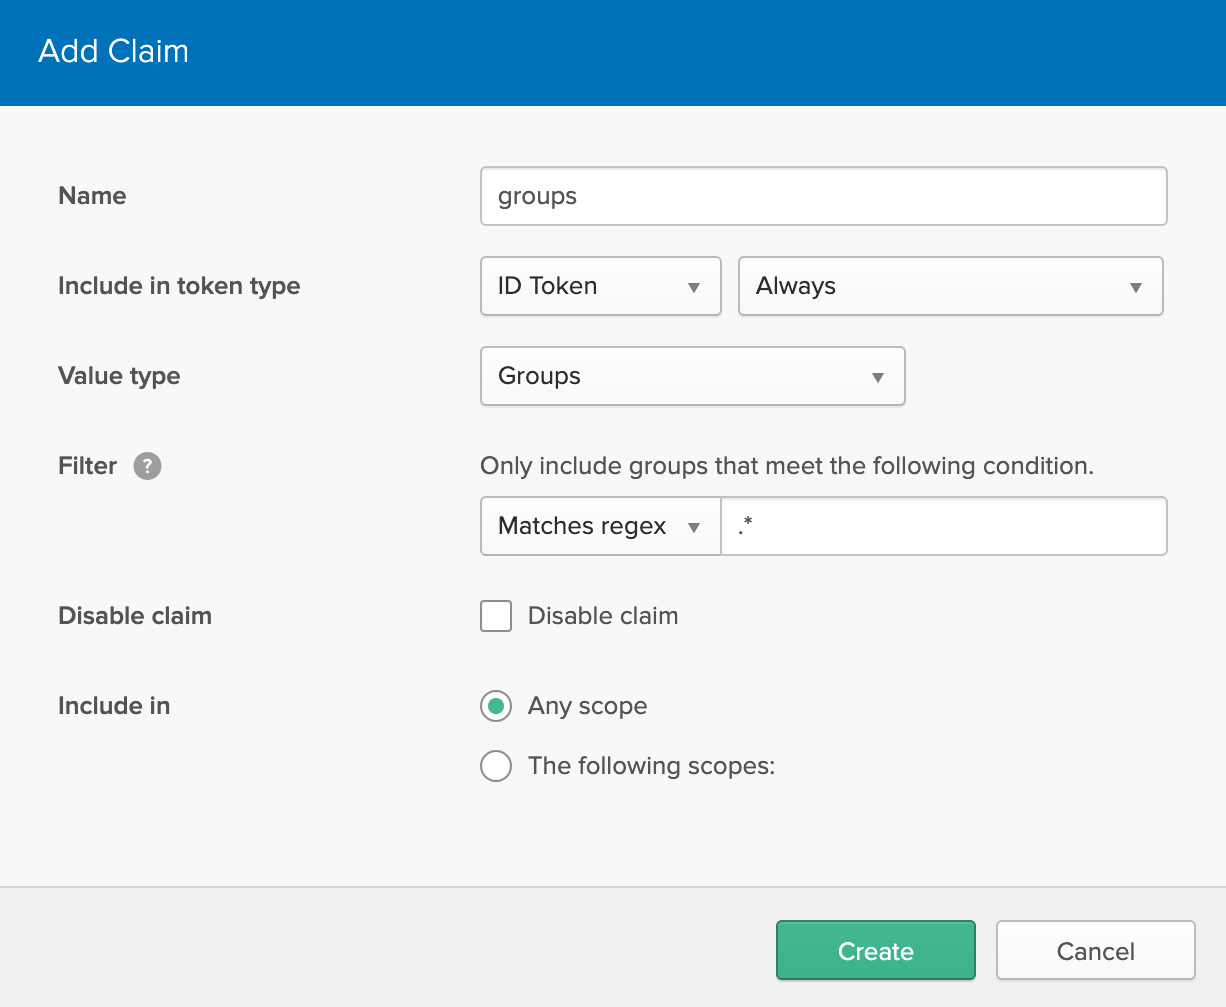
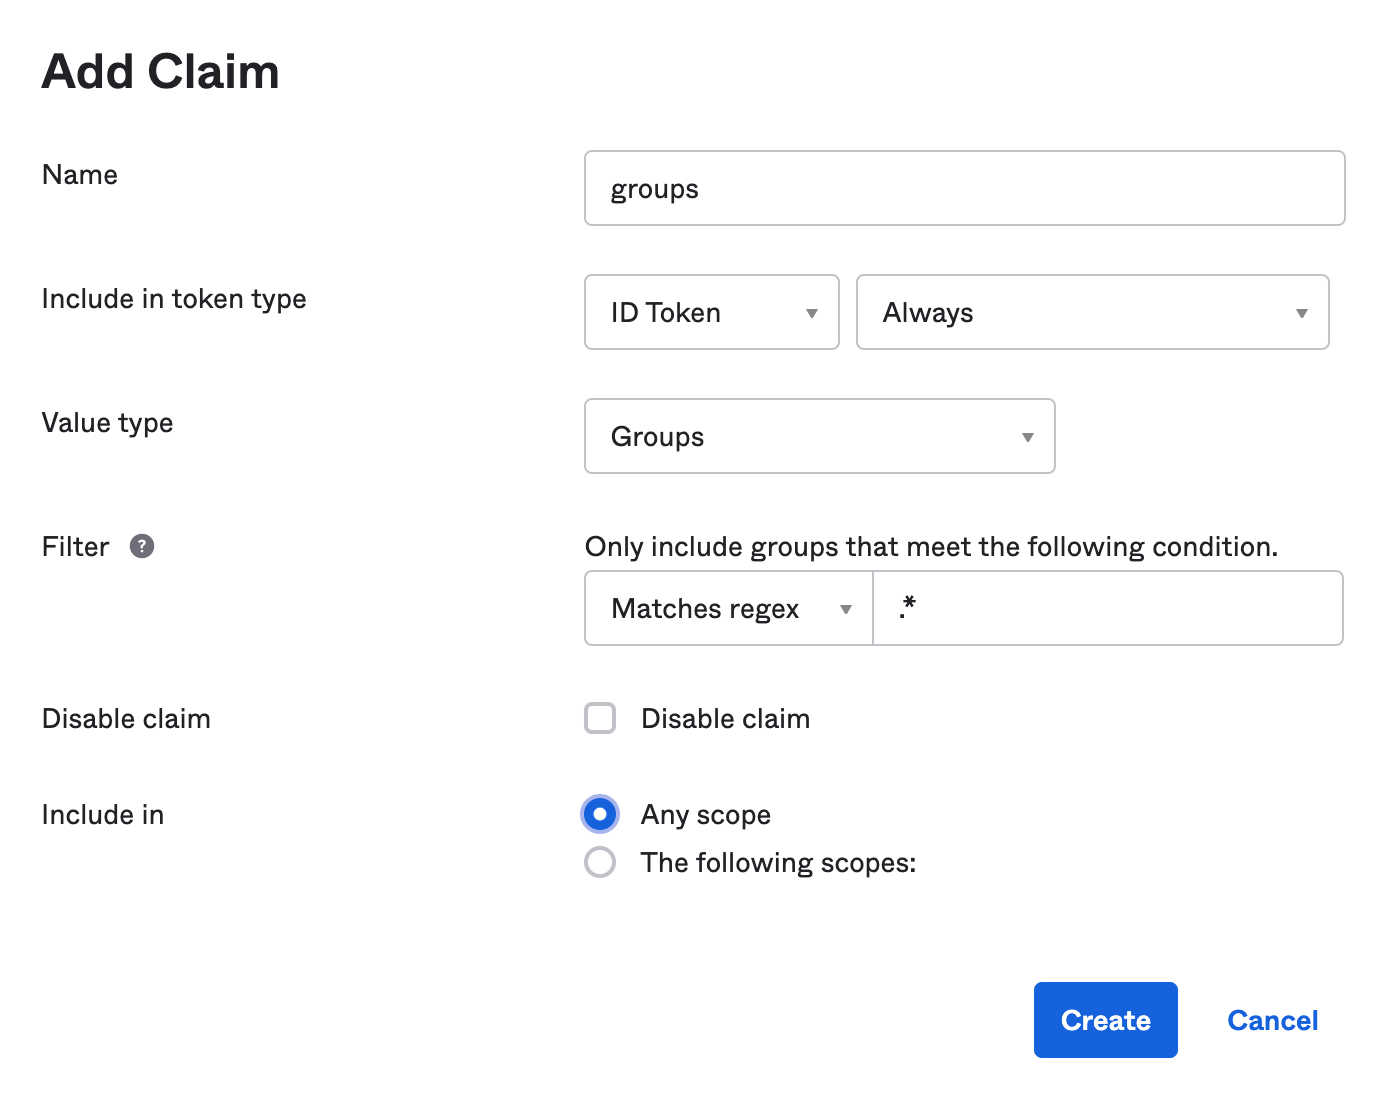
Update Okta instructions for new Admin Console

diff --git a/pages/security.md b/pages/security.md
@@ -121,9 +121,11 @@ Run `source .okta.env` and start your app with Maven or Gradle. You should be ab
 
 If you're on Windows, you should install [WSL](https://docs.microsoft.com/en-us/windows/wsl/install-win10) so the `source` command will work.
 
-If you'd like to configure things manually through the Okta developer console, see the instructions below.
+If you'd like to configure things manually through the Okta Admin Console, see the instructions below.
 
-First, you'll need to create a free developer account at <https://developer.okta.com/signup/>. After doing so, you'll get your own Okta domain, that has a name like `https://dev-123456.okta.com`.
+#### Create an OIDC App with the Okta Admin Console
+
+First, you'll need to create a free developer account at <https://developer.okta.com/signup>. After doing so, you'll get your own Okta domain, that has a name like `https://dev-123456.okta.com`.
 
 Modify `src/main/resources/config/application.yml` to use your Okta settings. Hint: replace `{yourOktaDomain}` with your org's name (e.g., `dev-123456.okta.com`).
 
@@ -140,15 +142,24 @@ security:
           client-secret: {client-secret}
 ```
 
-Create an OIDC App in Okta to get a `{client-id}` and `{client-secret}`. To do this, log in to your Okta Developer account and navigate to **Applications** > **Add Application**. Click **Web** and click the **Next** button. Give the app a name you’ll remember, and specify `http://localhost:8080/login/oauth2/code/oidc` as a Login redirect URI. Click **Done**, then edit your app to add `http://localhost:8080` as a Logout redirect URI. Copy the client ID and secret into your `application.yml` file.
+Create an OIDC App in Okta to get a `{client-id}` and `{client-secret}`. To do this, log in to your Okta Developer account and navigate to **Applications** > **Applications** > **Add Application** > **Create New App**. Select **Web**, **OpenID Connect**, and click **Create**. Give the app a name you'll remember, and specify `http://localhost:8080/login/oauth2/code/oidc` as a Login redirect URI. Add `http://localhost:8080` as a Logout redirect URI and click **Save**. Copy the client ID and secret into your `application.yml` file.
 
-Create a `ROLE_ADMIN` and `ROLE_USER` group (**Users** > **Groups** > **Add Group**) and add users to them. You can use the account you signed up with, or create a new user (**Users** > **Add Person**). Navigate to **API** > **Authorization Servers**, and click on the `default` server. Click the **Claims** tab and **Add Claim**. Name it `groups`, and include it in the ID Token. Set the value type to `Groups` and set the filter to be a Regex of `.*`. Click **Create**.
+Create a `ROLE_ADMIN` and `ROLE_USER` group (**Directory** > **Groups** > **Add Group**) and add users to them. You can use the account you signed up with, or create a new user (**Directory** > **People** > **Add Person**). Navigate to **Security** > **API** > **Authorization Servers**, and click on the `default` server. Click the **Claims** tab and **Add Claim**. Name it `groups`, and include it in the ID Token. Set the value type to `Groups` and set the filter to be a Regex of `.*`. Click **Create**.
 
 <img src="{{ site.url }}/images/security-add-claim.png" alt="Add Claim" width="600" style="margin: 10px">
 
-**NOTE:** If you want to use Okta all the time (instead of Keycloak), modify JHipster’s Protractor tests to use this account when running. Do this by changing the credentials in `src/test/javascript/e2e/account/account.spec.ts` and `src/test/javascript/e2e/admin/administration.spec.ts`.
-
 After making these changes, you should be good to go! If you have any issues, please post them to [Stack Overflow](https://stackoverflow.com/questions/tagged/jhipster). Make sure to tag your question with "jhipster" and "okta".
+
+To use Okta when running e2e tests, you can set environment variables.
+
+```shell
+export CYPRESS_E2E_USERNAME=<your-username>
+export CYPRESS_E2E_PASSWORD=<your-password>
+```
+
+If you're using Protractor, remove the `CYPRESS_` prefix.
+
+#### Use Environment Variables
 
 You can also use environment variables to override the defaults. For example:
 
@@ -169,18 +180,16 @@ heroku config:set \
   SPRING_SECURITY_OAUTH2_CLIENT_REGISTRATION_OIDC_CLIENT_SECRET="$SPRING_SECURITY_OAUTH2_CLIENT_REGISTRATION_OIDC_CLIENT_SECRET"
 ```
 
-For Cloud Foundry, you can use something like the following, where `$appName` is the name of your app.
-
-```bash
-export appName={your-app}
-cf set-env $appName SPRING_SECURITY_OAUTH2_CLIENT_PROVIDER_OIDC_ISSUER_URI "$SPRING_SECURITY_OAUTH2_CLIENT_PROVIDER_OIDC_ISSUER_URI"
-cf set-env $appName SPRING_SECURITY_OAUTH2_CLIENT_REGISTRATION_OIDC_CLIENT_ID "$SPRING_SECURITY_OAUTH2_CLIENT_REGISTRATION_OIDC_CLIENT_ID"
-cf set-env $appName SPRING_SECURITY_OAUTH2_CLIENT_REGISTRATION_OIDC_CLIENT_SECRET "$SPRING_SECURITY_OAUTH2_CLIENT_REGISTRATION_OIDC_CLIENT_SECRET"
-```
-
 See [Use OpenID Connect Support with JHipster](https://developer.okta.com/blog/2017/10/20/oidc-with-jhipster) to learn more about JHipster 5 and OIDC with Okta. 
 
-If you're using JHipster 6, see [Better, Faster, Lighter Java with Java 12 and JHipster 6](https://developer.okta.com/blog/2019/04/04/java-11-java-12-jhipster-oidc). If you're using microservices with JHipster 6, see [Java Microservices with Spring Cloud Config and JHipster](https://developer.okta.com/blog/2019/05/23/java-microservices-spring-cloud-config).
+If you're using JHipster 6, see [Better, Faster, Lighter Java with Java 12 and JHipster 6](https://developer.okta.com/blog/2019/04/04/java-11-java-12-jhipster-oidc). If you're using microservices with JHipster 6, see [Java Microservices with Spring Cloud Config and JHipster](https://developer.okta.com/blog/2019/05/23/java-microservices-spring-cloud-config). 
+
+For JHipster 7, see [Reactive Java Microservices with Spring Boot and JHipster](https://developer.okta.com/blog/2021/01/20/reactive-java-microservices).
+
+The Okta developer blog also has some ❤ for Micronaut and Quarkus:
+
+- [Build a Secure Micronaut and Angular App with JHipster](https://developer.okta.com/blog/2020/08/17/micronaut-jhipster-heroku)
+- [Fast Java Made Easy with Quarkus and JHipster](https://developer.okta.com/blog/2021/03/08/jhipster-quarkus-oidc)
 
 ## <a name="https"></a> HTTPS
 
@@ -199,7 +208,7 @@ public class WebSecurityConfigurerAdapter extends WebSecurityConfigurerAdapter {
 }
 ```
 
-This will work on both Heroku and Cloud Foundry. For more production tips on Heroku, see [Preparing a Spring Boot App for Production on Heroku](https://devcenter.heroku.com/articles/preparing-a-spring-boot-app-for-production-on-heroku).
+This will work splendidly on Heroku. For more production tips on Heroku, see [Preparing a Spring Boot App for Production on Heroku](https://devcenter.heroku.com/articles/preparing-a-spring-boot-app-for-production-on-heroku).
 
 ## <a name="implementation-details"></a> Leakage of implementation details
 
